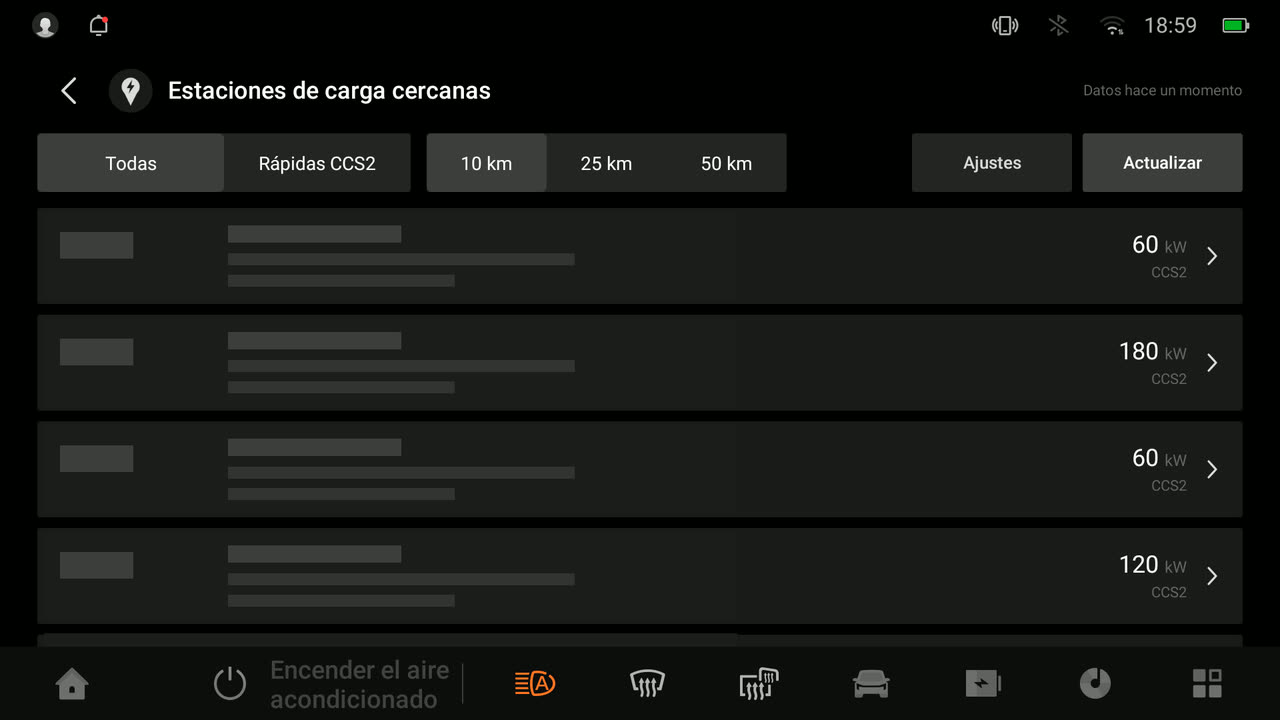
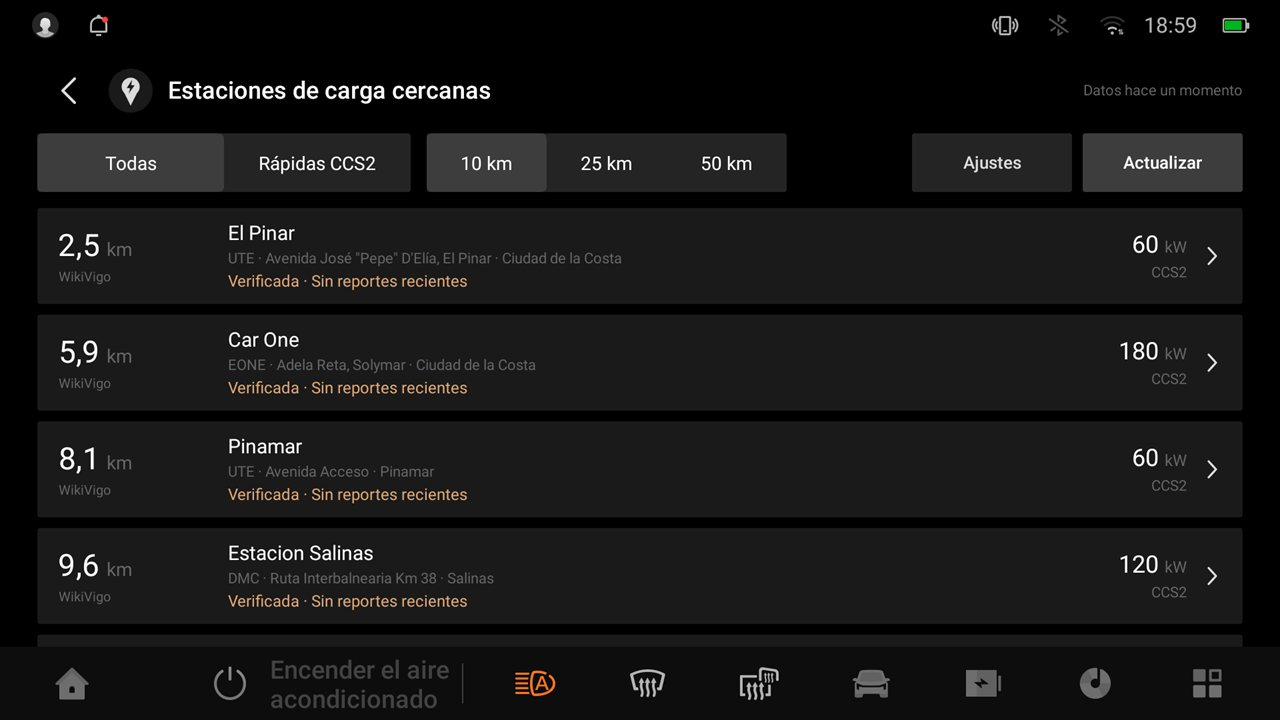
Qué agrega el instalador: Cargadores screenshot with the real stations (distances replaced by made-up ones)

diff --git a/specs/installer-features-page.md b/specs/installer-features-page.md
@@ -75,3 +75,5 @@ missing from the kit.
 Screenshots were too large and opened in another tab. Each is now a thumbnail of at most 420 px (`ShotViewer`); a tap opens it
 over the page (close button, tap outside, Escape), and a tap on the large picture switches between fit and full size (scroll to read
 on a phone). No link leaves the page. Test: open, zoom, close by button and by Escape.
+`cargadores.jpg` shows real station names and addresses with made-up distances (owner 2026-11-28): real distances to public stations
+would give away where the car was parked.
